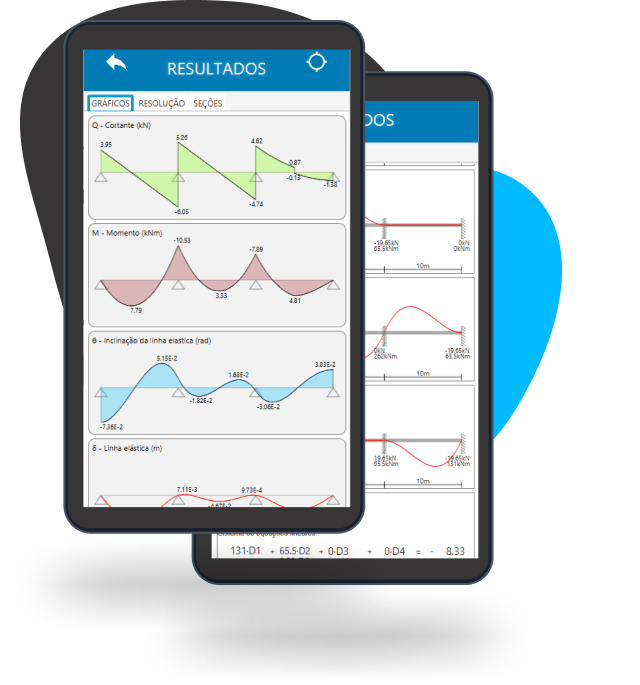
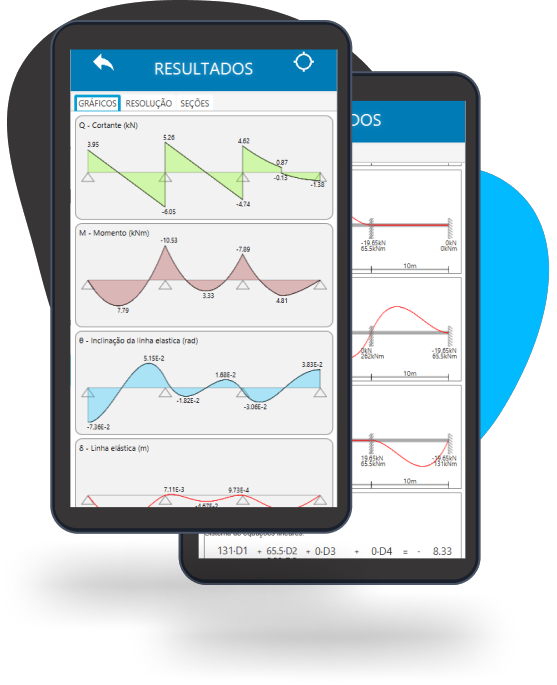
Ajustando imagem apresentacao section home

diff --git a/estilo.css b/estilo.css
@@ -55,12 +55,15 @@ body{
     display: none;
 }
 
+.topnav:first-child {
+    padding-left: 7%;
+}
+
 .topnav-child{
     display: flex;
-    justify-content: center;
+/*     justify-content: center; */
     align-items: center;
     float: left;
-    justify-content: center;
     height: 100%;
 }
 
@@ -78,7 +81,7 @@ body{
     display: inline-table; 
     vertical-align: middle; 
     text-align: center;
-    margin-right: 5%;
+    margin-right: 6%;
 }
 
 #buttons-menu a{
@@ -182,12 +185,12 @@ section{
     width: 100%;
 }
 
-/* #home-div {
-    position: relative;
-    top: 156px;
-    left: 0;
-    width: auto;
+#home-div {
+    width: 100%;
+    height: 100%;
 }
+
+/* 
 
 #home-div> * {
     display: block;
@@ -196,24 +199,31 @@ section{
 }
  */
 #home-div-child {
-    position: relative;
-    top: 156px;
-    left: 0;
-    width: auto;
+    padding-top: 156px;
+    width: 50%;
+    height: 100%;
+}
+
+#div-imagem-apresentacao{
+    padding-right: 1%;
+    padding-top: 44px;
+    width: 50%;
+
+    display: flex;
+/*     justify-content: center; */
+/*     align-items: center; */
+    float: right;
+    height: 100%;
 }
 
 #imagem-apresentacao{
-    float: right;
-    position: relative;
-    top: 44px;
-    left: 200px;
-    width: auto;
+    
 }
 
 #home-div-child > * {
     display: block;
     margin-bottom: 30px;
-    margin-left: 7%;
+    margin-left: 14%;
 }
 
 #home-div h4 {

diff --git a/index.html b/index.html
@@ -37,8 +37,8 @@
                         <a href="" class="btn-claro btn-home"><img class="img-btn" src="images/vector_cadastro_btn_claro.png"><span class="span-btn">Cadastrar</span></a>
                     </div>
                 </div>
-                <div id="imagem-apresentacao">
-                    <img src="images/apresentacao_home.png">
+                <div id="div-imagem-apresentacao">
+                    <img id="imagem-apresentacao" src="images/apresentacao_home.png">
                 </div>
             </div>
         </section>
